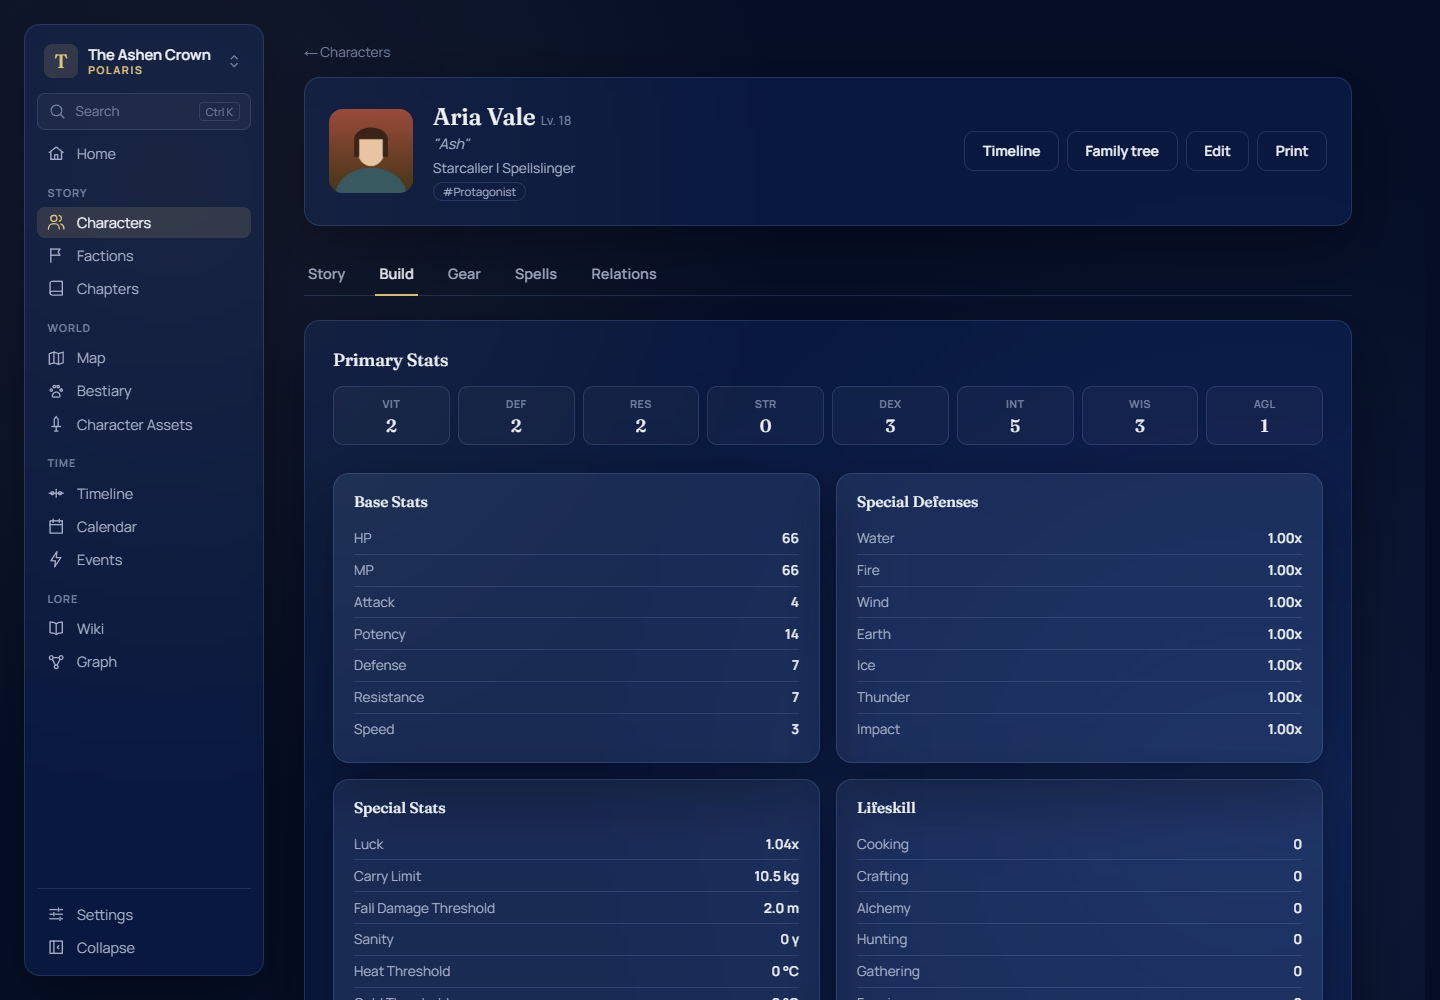
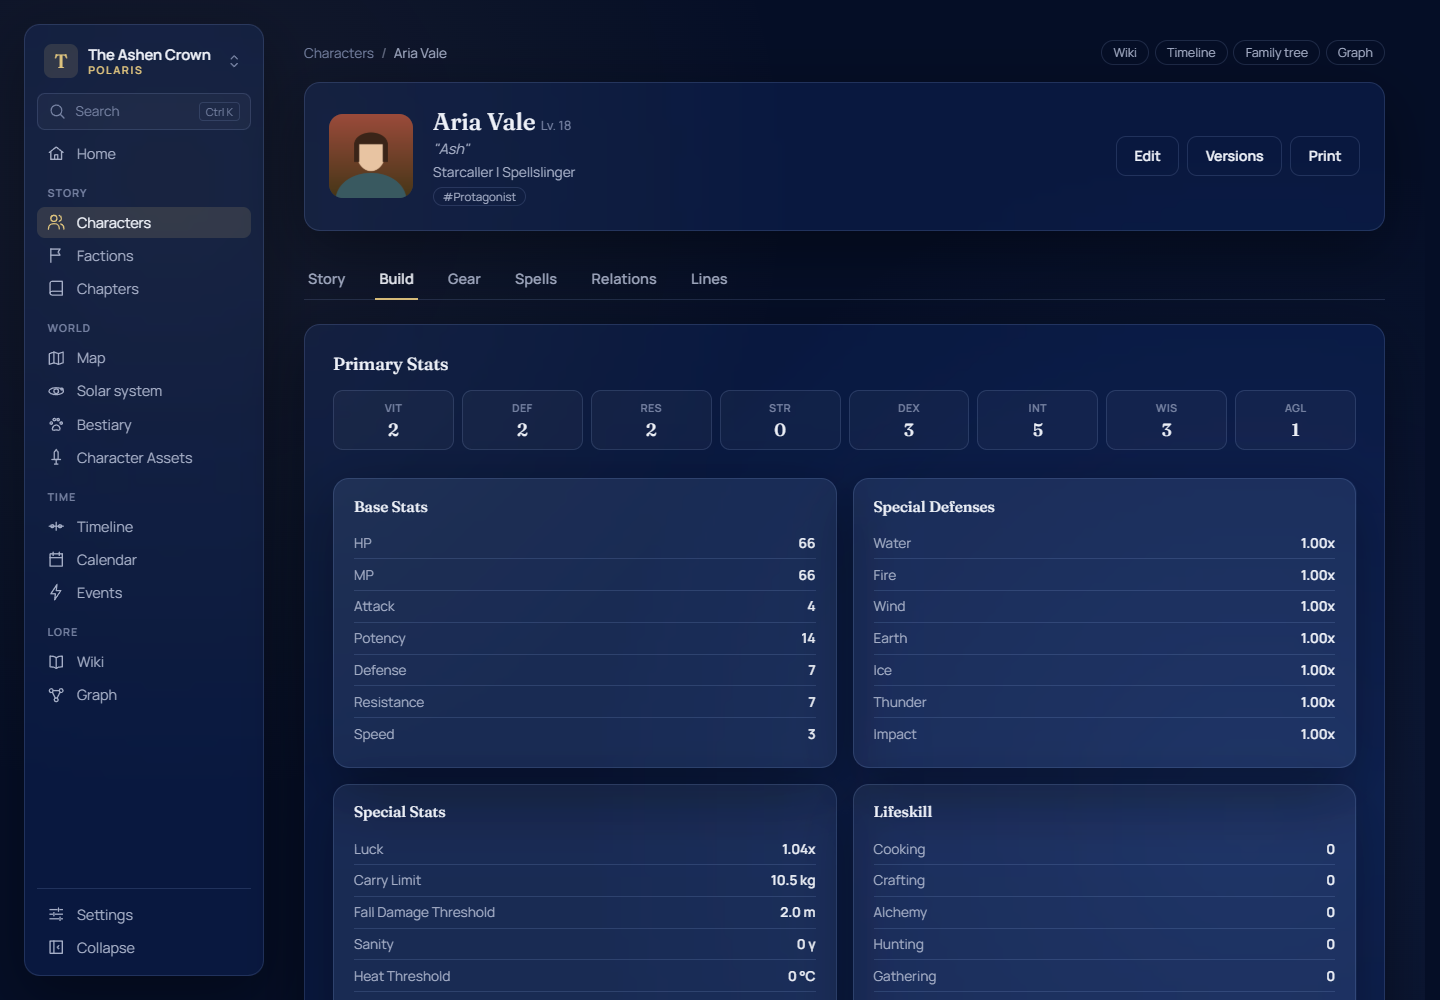
Release 3.0.0
Version 3.0.0, with its changelog: the writing editor, the 3D planet and
its climate, the solar system and its sky, and everything else since
2.1.0. The README is rewritten to show what Polaris does now, with new
screenshots of the editor, the planet, the solar system and the sky, and
the old ones retaken with the current interface.

diff --git a/README.md b/README.md
@@ -1,61 +1,134 @@
-# Polaris
+<p align="center">
+  <img src="frontend/public/logo.svg" alt="" width="96" />
+</p>
 
-Polaris is a self-hosted organizer for writing stories. It keeps everything
-about a story in one place that you own: characters and how they change over
-the chapters, who they are to each other, the map, the calendar and history
-of the world, and a wiki that writes itself from all of it. It grew out of
-writing LitRPG, so characters also have levels, stats, gear and spells.
+<h1 align="center">Polaris</h1>
 
-Polaris is a single Go program with the web interface built in. Each story
-has its own SQLite database, so it runs comfortably on a small home server.
+<p align="center">
+  <b>Write the book and build the world it happens in, in one app you host yourself.</b><br />
+  Characters, maps, planets, calendars, a wiki that writes itself, and a manuscript editor that speaks Word.
+</p>
+
+<p align="center">
+  <a href="https://github.com/AstraLumi/polaris/releases/latest"><img alt="Latest release" src="https://img.shields.io/github/v/release/AstraLumi/polaris?color=dfc47e&labelColor=13204a" /></a>
+  <a href="LICENSE"><img alt="License: AGPL-3.0" src="https://img.shields.io/badge/license-AGPL--3.0-dfc47e?labelColor=13204a" /></a>
+  <a href="#quick-start-docker"><img alt="Docker: amd64 and arm64" src="https://img.shields.io/badge/docker-amd64%20%7C%20arm64-dfc47e?labelColor=13204a" /></a>
+</p>
+
+<p align="center">
+  <img src="docs/screenshots/writing.png" alt="The writing editor: a chapter on an A6 page, with a hover card for the character who speaks" width="49%" />
+  <img src="docs/screenshots/planet.png" alt="The world as a 3D planet of hexes, with the prevailing winds worked out from its geography" width="49%" />
+</p>
+
+Polaris keeps everything about a story in one place that you own: the
+characters and how they change from chapter to chapter, who they are to each
+other, the map and the planet it sits on, the calendar and history of the
+world, and the manuscript itself. Everything links to everything, so the wiki
+fills itself in as you go.
+
+It grew out of writing LitRPG, so characters can also have levels, stats,
+classes, gear and spells, with formulas you define. If your story has none of
+that, leave those pages empty.
+
+Polaris is one Go program with the web interface built in, and every story is
+its own SQLite file. It runs happily on a Raspberry Pi or a small home server,
+and on your phone it installs like an app.
 
 > **Provided as is.** Polaris was built for personal use and is shared in case
 > it is useful to others. There is no support and no commitment to future
 > updates. It is licensed under the AGPL-3.0 with a few additional terms; see
 > [License](#license).
 
-## Features
+## What it does
 
-- **Characters** change over the story in versions (renames, new classes,
-  a new status), which you can compare side by side. Each has tags, computed
-  stats, a gear paper-doll, a spell list and a printable sheet.
-- **Relations and families**: parents, partners, mentors and rivals, each
-  holding from one chapter or date to another, so every version shows the
-  relations of its own time. Family trees are drawn from them. Factions have
-  ranks and can nest, and every kingdom on the map is a faction too.
-- **World**: a paintable hex map of kingdoms, regions, cities and capitals,
-  and Character Assets (classes, races, gear, spells…) that grant stat
-  bonuses. Races and specializations can be native to a kingdom.
-- **Bestiary**: the monsters, animals and constructs of your world, each
-  with a level range, the place it's native to, a description, a picture and
-  related creatures. A creature's territory follows its place's area, or you
-  paint it hex by hex, and its wiki article shows it as a picture of the map.
-- **Stats your way**: which stats characters have and how each is
-  calculated is up to each story, edited in Settings with formulas built
-  from blocks (see [Stats](#stats)).
-- **Time**: your own calendar (months and days), events tied to places,
-  people and chapters, a timeline drawn to scale, a month-by-month calendar
-  view, and chapters grouped into volumes.
-- **Wiki**: every character, place, faction, event and asset already has an
-  article, built live from the story. You add the lore in Markdown with a
-  formatting toolbar, link articles with `[[…]]` (a picker finds them for
-  you) and see a preview when hovering a link. Free-form articles cover
-  gods, history or magic; galleries hold pictures; a character's article
-  has a tab per version; and a graph shows how everything connects.
-- **Everyday**: Ctrl+K search, any number of separate stories with `.zip`
-  export and import, English, Português (BR) and Español (ES and Latin
-  America), five colour themes, and a layout that works on phones.
+### ✍ Write the book
+
+- **A manuscript editor that works like Word**: styles, fonts, find and
+  replace, comments, footnotes and endnotes, tables, pictures with text
+  wrapping, drop caps, a Format Painter, a symbol browser, and system-window
+  boxes for the LitRPG crowd.
+- **Real pages while you write.** Pick A4, A5, A6, a custom trim size or an
+  online post. Pages break where Word would break them, and a page view adds
+  headers, footers, page numbers and a table of contents, ready to print to
+  PDF.
+- **Word in, Word out.** Upload a `.docx` and it becomes chapters, keeping its
+  formatting, pictures, comments and page setup. Export `.docx`, EPUB, HTML,
+  Markdown or plain text.
+- **It knows your story.** The spellchecker accepts your characters' names.
+  Tag a line of dialogue with who says it, and each character gets a list of
+  their lines. Each wiki article lists the chapters that mention it.
+- **Never lose a word.** It saves as you type, keeps versions every 30
+  minutes, warns about edits from another tab, and works offline: changes
+  upload when you're back online.
+- **Fonts you can publish with.** 26 open-licensed fonts come built in,
+  including book serifs, sci-fi "system window" faces, handwriting and
+  Japanese. You can upload your own. Each book lists its fonts with their
+  licenses and flags any you can't legally embed in an e-book.
+
+### 🌍 Build the world
+
+<p align="center">
+  <img src="docs/screenshots/solar.png" alt="The solar system in 3D: a star, its habitable zone, a ringed giant and elliptical orbits" width="49%" />
+  <img src="docs/screenshots/sky.png" alt="The night sky seen from one hex of the planet, with the galaxy and stars" width="49%" />
+</p>
+
+- **A map that becomes a planet.** Paint kingdoms, regions, oceans and cities
+  on a flat hex map, or on a whole 3D globe of hexes with flat projections
+  (Mercator, Robinson, Mollweide…).
+- **A climate worked out from your geography.** Paint continents, biomes,
+  mountains and ocean depths, and Polaris derives the winds, ocean currents,
+  temperature, rain, clouds and climate zones for any month. Mountains steer
+  the winds and dry the air behind them.
+- **A solar system with real physics.** Real star classes, from brown dwarfs
+  and red giants to neutron stars and black holes. Planets and moons follow elliptical, tilted orbits, or live
+  n-body gravity if you dare. There are rings, eclipses, habitable zones, and
+  even Dyson spheres.
+- **The true sky from any hex, on any date and hour**: the sun, the moons
+  with their phases, the planets, and the stars, all to scale.
+- **A bestiary** of your creatures, with territories drawn on the map, and
+  **Character Assets** (classes, races, gear, spells) that feed the stats.
+
+### 🧑🤝🧑 Keep track of characters
+
+- **Characters change over the story.** Each change (a rename, a new class,
+  a death) is a version tied to a chapter. Compare versions side by side.
+- **Relations that hold for a time**: parents, partners, mentors and rivals,
+  from one chapter or date to another. Family trees draw themselves, and
+  factions have ranks and nest.
+- **Stats your way.** Each story defines its own stats and formulas, built
+  from blocks (see [Stats](#stats)), shown on a printable character sheet
+  with a gear paper-doll and a spell list.
+- **A height chart** lines the cast up to scale.
+
+### 📚 A wiki that writes itself
+
+- **Every character, place, faction, event, creature and planet already has
+  an article**, built live from the story. You add the lore in Markdown.
+- **Links survive renames.** Link with `[[…]]` and a picker finds the page;
+  links are stored by id, so renaming a character fixes every mention.
+  Hovering a link shows a preview.
+- **See it all**: a graph of how everything connects, a timeline drawn to
+  scale, and a calendar with your own months, eras and seasons.
+
+### 🏠 Yours
+
+- Self-hosted, with no account and no telemetry. Each story exports to a `.zip`.
+- Any number of separate stories, Ctrl+K search everywhere, five colour
+  themes, a layout that works on phones.
+- In English, Português (BR) and Español (ES and Latin America).
 
 ## Screenshots
 
-Made with a demo story of invented data.
+Made with demo stories of invented data.
 
 | | |
 |---|---|
 | ![A character's wiki article](docs/screenshots/wiki.png) **Wiki**: an article built from the story, with your text, version tabs and a grouped infobox. | ![The graph of the wiki](docs/screenshots/graph.png) **Graph**: every article and connection; hovering a dot lights up its neighbours. |
+| ![The climate on the globe](docs/screenshots/planet.png) **Planet**: the prevailing winds, worked out from the continents and mountains. | ![The solar system](docs/screenshots/solar.png) **Solar system**: orbits, a habitable zone and a ringed giant, in 3D. |
 | ![A family tree](docs/screenshots/family.png) **Family tree**: born to one couple, adopted by another. | ![The timeline](docs/screenshots/timeline.png) **Timeline**: one character's life, long gaps coiled up. |
 | ![The hex map](docs/screenshots/map.png) **Map**: kingdoms, regions, cities and capitals. | ![A character sheet](docs/screenshots/character.png) **Character sheet**: stats computed from class, race and gear. |
 | ![A creature's wiki article](docs/screenshots/bestiary.png) **Bestiary**: a creature's article, with its territory drawn on the map's hexes. | ![The stats settings](docs/screenshots/stats.png) **Stats**: every stat's formula, built from blocks. |
+| ![The writing editor](docs/screenshots/writing.png) **Writing**: an A6 page, a tagged line of dialogue and its speaker's card. | ![The sky from a hex](docs/screenshots/sky.png) **Sky**: midnight from a desert hex, stars found in the sky picture. |
 
 ## Security
 
@@ -102,7 +175,7 @@ automatically, and git ignores it, so your settings are kept across updates.
 |-------------|-------------|-------------------------------------------------------------------|
 | `BIND_ADDR` | `127.0.0.1` | Host address to listen on. `0.0.0.0` exposes it to your network.  |
 | `HOST_PORT` | `8091`      | Port on the host.                                                 |
-| `POLARIS_VERSION` | `latest` | Release to run, such as `2.0.0`, to stay on it until you change it. |
+| `POLARIS_VERSION` | `latest` | Release to run, such as `3.0.0`, to stay on it until you change it. |
 
 The application itself reads the following variables. `docker-compose.yml`
 already sets them, so you only need them when
@@ -218,8 +291,17 @@ first). Copying another story's Character Assets copies its stats too.
 
 ## Privacy
 
-The interface loads its fonts from Google Fonts, so your browser contacts
-Google to fetch them. Polaris makes no other external requests.
+Polaris sends nothing about you or your stories anywhere. It reaches out in
+only these cases:
+
+- The interface's own fonts load from Google Fonts, so your browser contacts
+  Google for them.
+- In the writing editor, a book font that is neither built in nor in your
+  fonts library is fetched from Google Fonts. The server also asks Google
+  Fonts for that font's line spacing and license, and keeps the answers.
+
+The 26 built-in book fonts and the spelling dictionaries are served by Polaris
+itself.
 
 ## Development
 

diff --git a/CHANGELOG.md b/CHANGELOG.md
@@ -4,6 +4,57 @@ What changed in each version of Polaris. The same notes are on the
 [Releases](https://github.com/AstraLumi/polaris/releases) page. Versions are
 Major.Minor.Bugfix: new features raise Minor, fixes raise Bugfix.
 
+## 3.0.0 (2026-10-30)
+
+**Upgrade:** stories are upgraded to database schema 46 the first time they are opened. This can't be undone, so export your stories first. Polaris now also saves an export of each story in its `backups` folder before upgrading it.
+
+Polaris 3.0 adds three big parts: a writing editor for the manuscript itself, a 3D planet with a climate worked out from your map, and a solar system with its sky.
+
+### Added
+
+**Writing**
+
+- **A writing editor** for each book (Chapters → Write): styles, fonts, find and replace, undo, lists, tables, pictures with text wrapping, drop caps, boxes and shading (consecutive boxes form one LitRPG "system window"), a Format Painter, and a Symbols panel to browse a font's characters.
+- **Page types**: A4, A5, A6, a custom trim size, or an online post. Page-based books show real pages while you write, breaking like Word (widows and orphans, keep with next, page breaks), with line spacing that follows each font.
+- **A page view** with headers, footers, page numbers (roman for front matter, restarts), a table of contents with page numbers, footnotes at the foot of the page, and print to PDF.
+- **Word files in and out.** Upload a `.docx` and it becomes chapters, keeping formatting, pictures, tables, comments, footnotes, headers, footers and page setup; the text before the first Heading 1 becomes front matter. Export the book or a chapter as `.docx`, EPUB, HTML, Markdown or plain text.
+- **Comments** with replies, **footnotes and endnotes**, and **read aloud** with the sentence highlighted.
+- **A spellchecker that knows your story's names** (English US and UK, Portuguese, Spanish), with a dictionary for each story.
+- **Tag who speaks** a line of dialogue (Script Mode, or Ctrl+Alt+K on prose) and **tag spells** being cast. Hovering a tag shows a card. Characters get a Lines tab, and every wiki article lists the chapters it appears in.
+- **Saving you can trust**: autosave, a copy kept in the browser, a warning when the same chapter was changed in another tab, versions every 30 minutes and on demand, and **offline writing**: Polaris installs as an app, and books marked "Available offline" can be written with no connection. Changes upload when you reconnect, and edits to different paragraphs merge on their own.
+- **Fonts**: 26 open-licensed fonts come with the app and work offline (book serifs, "system window" faces, handwriting and sound effects, Japanese, Noto symbols), and Merriweather is the new default. A **fonts library** takes your own font files, with a record of each one's license and allowed uses. Each book lists its fonts and their licenses, flags fonts you can't embed in an e-book, can move a flagged font's spaces or symbols to a font you can use, and copies the credits for your copyright page. The toolbar's font picker has favourites and recent fonts.
+- Adding a volume offers to copy the previous volume's book settings.
+
+**World**
+
+- **A 3D planet.** In Settings → Map, choose a 3D planet instead of a flat map: a globe of hexes you paint like the 2D map, plus flat views (equirectangular, Mercator, Mollweide, Robinson). An existing 2D map can be carried onto it. A bucket tool fills empty areas, and names sit on the land and the water.
+- **Map layers** on the planet: tectonic plates, continents with a biome per hex (23 biomes), terrain (hills, plateaus, mountains, with a height), and ocean depths.
+- **A climate worked out from your map**, never typed in: winds, ocean currents, temperature, rain, clouds and climate types, for each month or the whole year. High ground steers the winds, lee slopes warm and dry, and volcanoes give off heat. Region articles show a climate table, and Settings → Calendar has seasons.
+- **The solar system** (World → Solar system): stars of real classes (from brown dwarfs to black holes, with "Reality Following" sizes and temperatures), planets and moons with elliptical and tilted orbits, rings, axial tilt and day length. It shows in 3D with a clock, live n-body gravity, eclipses and shadows, a habitable zone and gravity limits. A star can sit in a Dyson sphere, the whole system can sit inside a shell, and moons can shine on their own. Other planets get their own painted maps, and every body has a wiki article.
+- **The sky from any hex**: the true sky at any date and hour, with the sun, moons (with phases and eclipses), planets and the stars of your sky picture, at their real sizes and brightness, seen from the hex's ground height. You can upload your own sky picture.
+- **Height chart**: characters side by side to scale, in cm or ft/in, with outlines by sex, age and build.
+- **Characters**: an Earth birthdate and Earth name, blood types with their Japanese meanings, and birth date, blood type and place of birth kept on the character rather than on each version.
+- **Calendar**: month names, era names for the years before year 1, and a calendar button on every date box.
+
+**Everywhere**
+
+- **Navigation**: breadcrumbs, the same links bar on every item page, previous and next, a "not found" page, and Ctrl+K actions with recently opened items (also on Home).
+- Unsaved-changes warnings on forms, Save bars that stay in reach, drag and drop for pictures, chapters reordered by dragging, and rare actions in "…" menus.
+- Phone layouts for the calendar, map, character sheet, graph (with pinch zoom), timeline and lists.
+
+### Changed
+
+- **The license is now the AGPL-3.0** (it was MIT), with the additional terms in `NOTICE.md`: keep the credit, and give a changed version its own name. See the README.
+- **Wiki links are stored by id**, so renaming a character or place updates every link to it. Typing `[[Name]]` still works.
+- Dates read one way everywhere ("15/03/1054", "15 Frostfall 1054", "1054 Q2").
+- Pages use the whole width of the window.
+- The README has new screenshots and describes all of the above.
+
+### Fixed
+
+- A story saved by a newer Polaris is now refused instead of being reset, and importing a newer export says so.
+- Uploading a picture no longer replaces another file that has the same name.
+
 ## 2.1.0 (2026-10-11)
 
 **Upgrade:** stories are upgraded to database schema 25 the first time they are opened. This can't be undone, so export your stories first.
